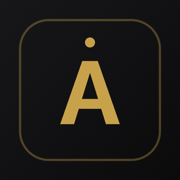
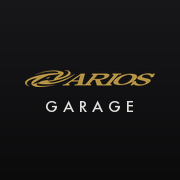
ARIOS: 正式ロゴ導入＋アプリ名を「ARIOS GARAGE」に統一
- Downloads/alios_logo.ai(PDF互換)から透過・再着色でロゴ画像を生成。
  ヘッダー用ワードマーク(public/logo-arios.png / -gold.png)と
  アプリアイコン(icon-192/512, apple-touch, favicon)をロゴベースに刷新。
- Wordmarkコンポーネント追加。トップ/ログインのヘッダーをロゴ表示に。
- 名称を「ARIOS GARAGE」に統一: manifest(name/short_name)、
  各ページの<title>、apple-web-app title、applicationName。
- ビルドOK・トップ/ログインを実機幅で確認。

diff --git a/arios/app/login/page.tsx b/arios/app/login/page.tsx
@@ -1,9 +1,10 @@
 import Link from "next/link";
 import { redirect } from "next/navigation";
 import LoginForm from "./LoginForm";
+import Wordmark from "../Wordmark";
 import { getCurrentUser } from "@/lib/auth";
 
-export const metadata = { title: "ログイン — ARIOS" };
+export const metadata = { title: "ログイン — ARIOS GARAGE" };
 
 export default async function LoginPage() {
   // 既にログイン済みならガレージへ
@@ -13,8 +14,8 @@ export default async function LoginPage() {
   return (
     <main className="mx-auto flex min-h-dvh max-w-sm flex-col justify-center px-6 py-10">
       <header className="mb-8">
-        <p className="text-xs tracking-[0.3em] text-accent">ARIOS</p>
-        <h1 className="mt-4 text-2xl font-semibold">
+        <Wordmark align="left" />
+        <h1 className="mt-5 text-2xl font-semibold">
           ログインして
           <br />
           ガレージを開く

diff --git a/arios/app/layout.tsx b/arios/app/layout.tsx
@@ -3,14 +3,14 @@ import "./globals.css";
 import TabBar from "./TabBar";
 
 export const metadata: Metadata = {
-  title: "ARIOS — 一台ごとの歴史を100年残す信頼インフラ",
+  title: "ARIOS GARAGE — 一台ごとの歴史を100年残す",
   description:
-    "車の売買サイトではなく、一台の乗り物の人生を一本の時間軸で記録する Vehicle Timeline。History is never deleted.",
+    "写真を撮るだけで、その車の消えない履歴書ができる。一台の乗り物の人生を一本の時間軸で記録する Vehicle Timeline。History is never deleted.",
   manifest: "/manifest.webmanifest",
-  applicationName: "ARIOS",
+  applicationName: "ARIOS GARAGE",
   appleWebApp: {
     capable: true,
-    title: "ARIOS",
+    title: "ARIOS GARAGE",
     statusBarStyle: "black-translucent",
   },
   icons: {

diff --git a/arios/app/page.tsx b/arios/app/page.tsx
@@ -1,4 +1,5 @@
 import Link from "next/link";
+import Wordmark from "./Wordmark";
 
 // Top（公開・訪問者）。アプリのランディング。下タブバーから各機能へ。
 const PRINCIPLES = [
@@ -20,8 +21,10 @@ export default function Home() {
   return (
     <main className="mx-auto max-w-xl px-6 pt-14">
       <header className="text-center">
-        <p className="text-sm tracking-[0.4em] text-accent">ARIOS</p>
-        <h1 className="mt-6 text-3xl leading-snug font-semibold">
+        <div className="flex justify-center">
+          <Wordmark />
+        </div>
+        <h1 className="mt-8 text-3xl leading-snug font-semibold">
           一台ごとの歴史を、
           <br />
           100年残す。

diff --git a/arios/app/Wordmark.tsx b/arios/app/Wordmark.tsx
@@ -1,0 +1,20 @@
+// ブランドのワードマーク（ARIOS ロゴ画像 + GARAGE）。ヘッダー用。
+export default function Wordmark({
+  align = "center",
+}: {
+  align?: "center" | "left";
+}) {
+  const wrap = align === "center" ? "items-center" : "items-start";
+  const pad = align === "center" ? "pl-[0.5em]" : "";
+  return (
+    <div className={`flex flex-col ${wrap} gap-1.5`}>
+      {/* eslint-disable-next-line @next/next/no-img-element */}
+      <img src="/logo-arios.png" alt="ARIOS" className="h-6 w-auto" />
+      <span
+        className={`text-[10px] font-medium tracking-[0.5em] text-muted ${pad}`}
+      >
+        GARAGE
+      </span>
+    </div>
+  );
+}

diff --git a/arios/app/admin/layout.tsx b/arios/app/admin/layout.tsx
@@ -3,7 +3,7 @@ import { redirect } from "next/navigation";
 import { getCurrentAdmin } from "@/lib/auth";
 
 export const dynamic = "force-dynamic";
-export const metadata = { title: "管理者 — ARIOS" };
+export const metadata = { title: "管理者 — ARIOS GARAGE" };
 
 // 管理者エリアのゲート。管理者(メール許可リスト)以外はトップへ。
 export default async function AdminLayout({

diff --git a/arios/app/garage/page.tsx b/arios/app/garage/page.tsx
@@ -4,7 +4,7 @@ import { createClient } from "@/lib/supabase/server";
 import { ensureOwner, isAdminEmail } from "@/lib/auth";
 
 export const dynamic = "force-dynamic";
-export const metadata = { title: "マイガレージ — ARIOS" };
+export const metadata = { title: "マイガレージ — ARIOS GARAGE" };
 
 export default async function GaragePage() {
   const owner = await ensureOwner();

diff --git a/arios/app/account/page.tsx b/arios/app/account/page.tsx
@@ -6,7 +6,7 @@ import { signOut } from "@/app/auth/actions";
 import AccountForm from "./AccountForm";
 
 export const dynamic = "force-dynamic";
-export const metadata = { title: "マイページ — ARIOS" };
+export const metadata = { title: "マイページ — ARIOS GARAGE" };
 
 export default async function AccountPage() {
   const user = await getCurrentUser();

diff --git a/arios/app/register/page.tsx b/arios/app/register/page.tsx
@@ -1,7 +1,7 @@
 import Link from "next/link";
 import RegisterForm from "./RegisterForm";
 
-export const metadata = { title: "愛車を登録 — ARIOS" };
+export const metadata = { title: "愛車を登録 — ARIOS GARAGE" };
 
 // Register（公開・ログイン不要）。写真 → 最小限の手入力 → 登録。
 export default function RegisterPage() {

diff --git a/arios/app/thank-you/page.tsx b/arios/app/thank-you/page.tsx
@@ -1,6 +1,6 @@
 import Link from "next/link";
 
-export const metadata = { title: "登録ありがとうございます — ARIOS" };
+export const metadata = { title: "登録ありがとうございます — ARIOS GARAGE" };
 
 // Thank You。登録直後に表示し、作った車の Timeline への導線を出す。
 export default async function ThankYouPage({

diff --git a/arios/app/garage/[id]/edit/page.tsx b/arios/app/garage/[id]/edit/page.tsx
@@ -5,7 +5,7 @@ import { getCurrentUser } from "@/lib/auth";
 import EditVehicleForm from "./EditVehicleForm";
 
 export const dynamic = "force-dynamic";
-export const metadata = { title: "登録内容を編集 — ARIOS" };
+export const metadata = { title: "登録内容を編集 — ARIOS GARAGE" };
 
 export default async function EditVehiclePage({
   params,

diff --git a/arios/app/garage/[id]/add-history/page.tsx b/arios/app/garage/[id]/add-history/page.tsx
@@ -5,7 +5,7 @@ import { getCurrentUser } from "@/lib/auth";
 import AddHistoryForm from "./AddHistoryForm";
 
 export const dynamic = "force-dynamic";
-export const metadata = { title: "出来事を追加 — ARIOS" };
+export const metadata = { title: "出来事を追加 — ARIOS GARAGE" };
 
 export default async function AddHistoryPage({
   params,

diff --git a/arios/app/garage/[id]/add-document/page.tsx b/arios/app/garage/[id]/add-document/page.tsx
@@ -5,7 +5,7 @@ import { getCurrentUser } from "@/lib/auth";
 import AddDocumentForm from "./AddDocumentForm";
 
 export const dynamic = "force-dynamic";
-export const metadata = { title: "書類を追加 — ARIOS" };
+export const metadata = { title: "書類を追加 — ARIOS GARAGE" };
 
 export default async function AddDocumentPage({
   params,
